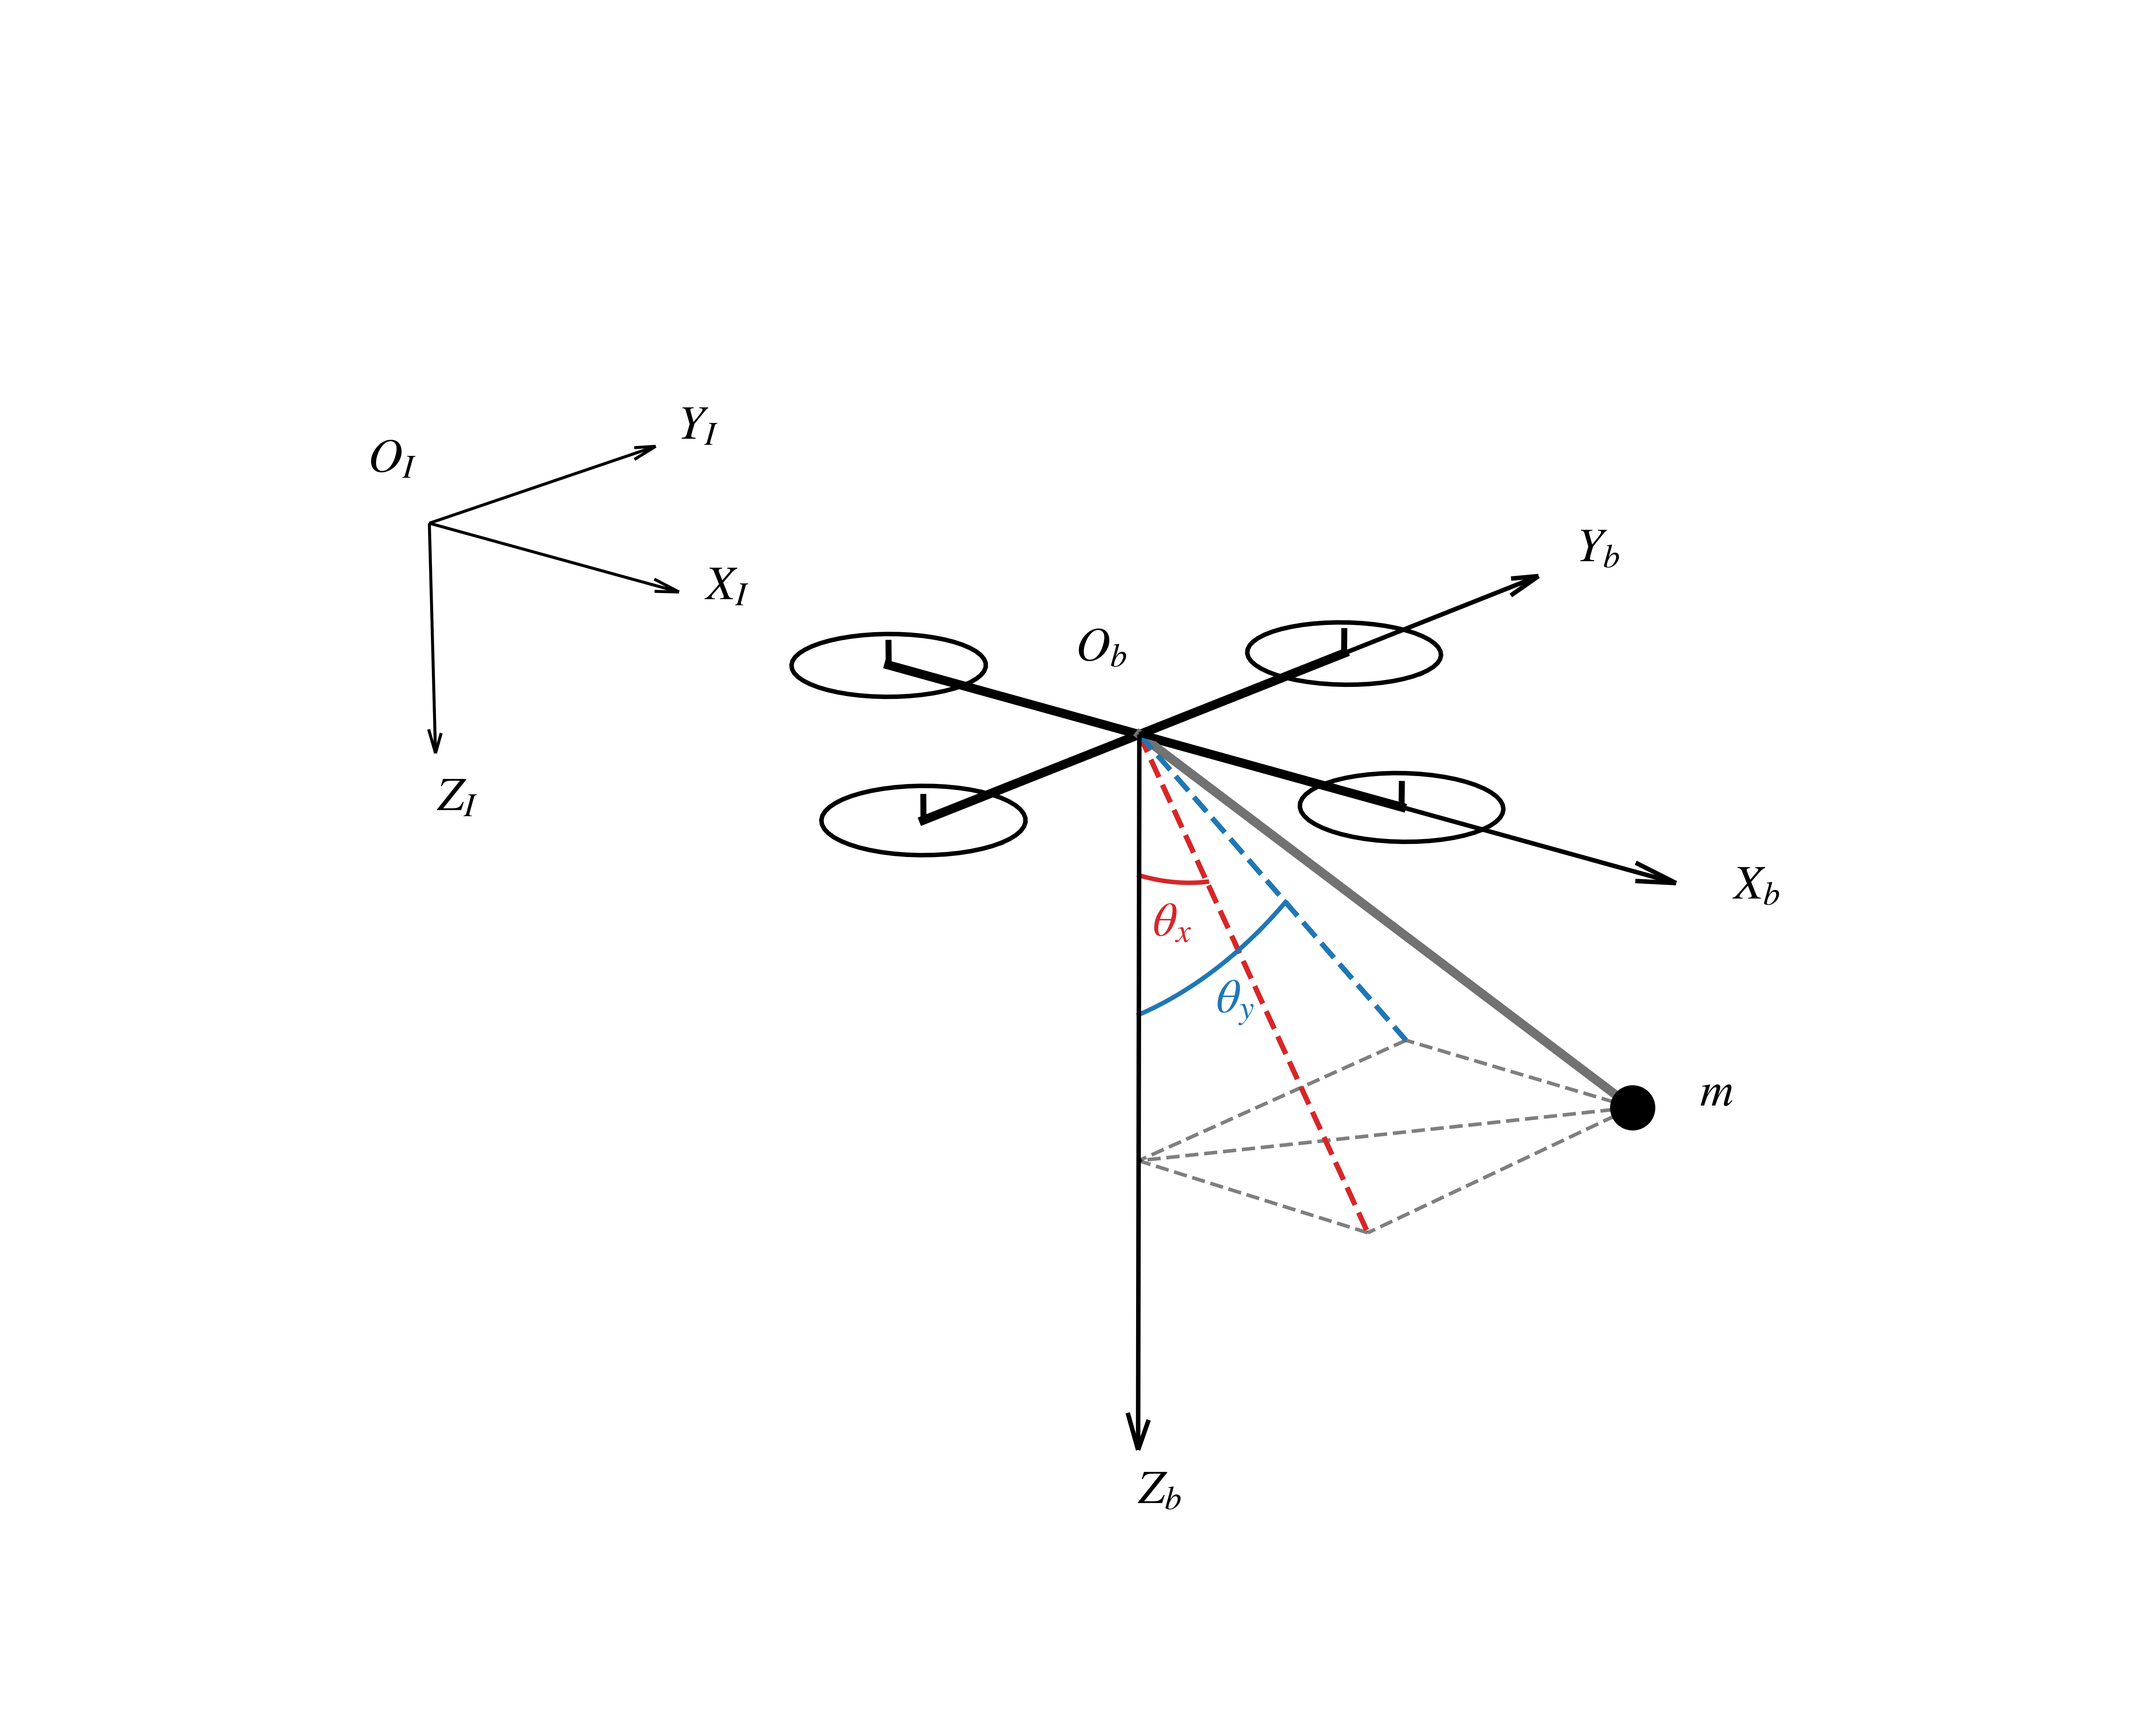
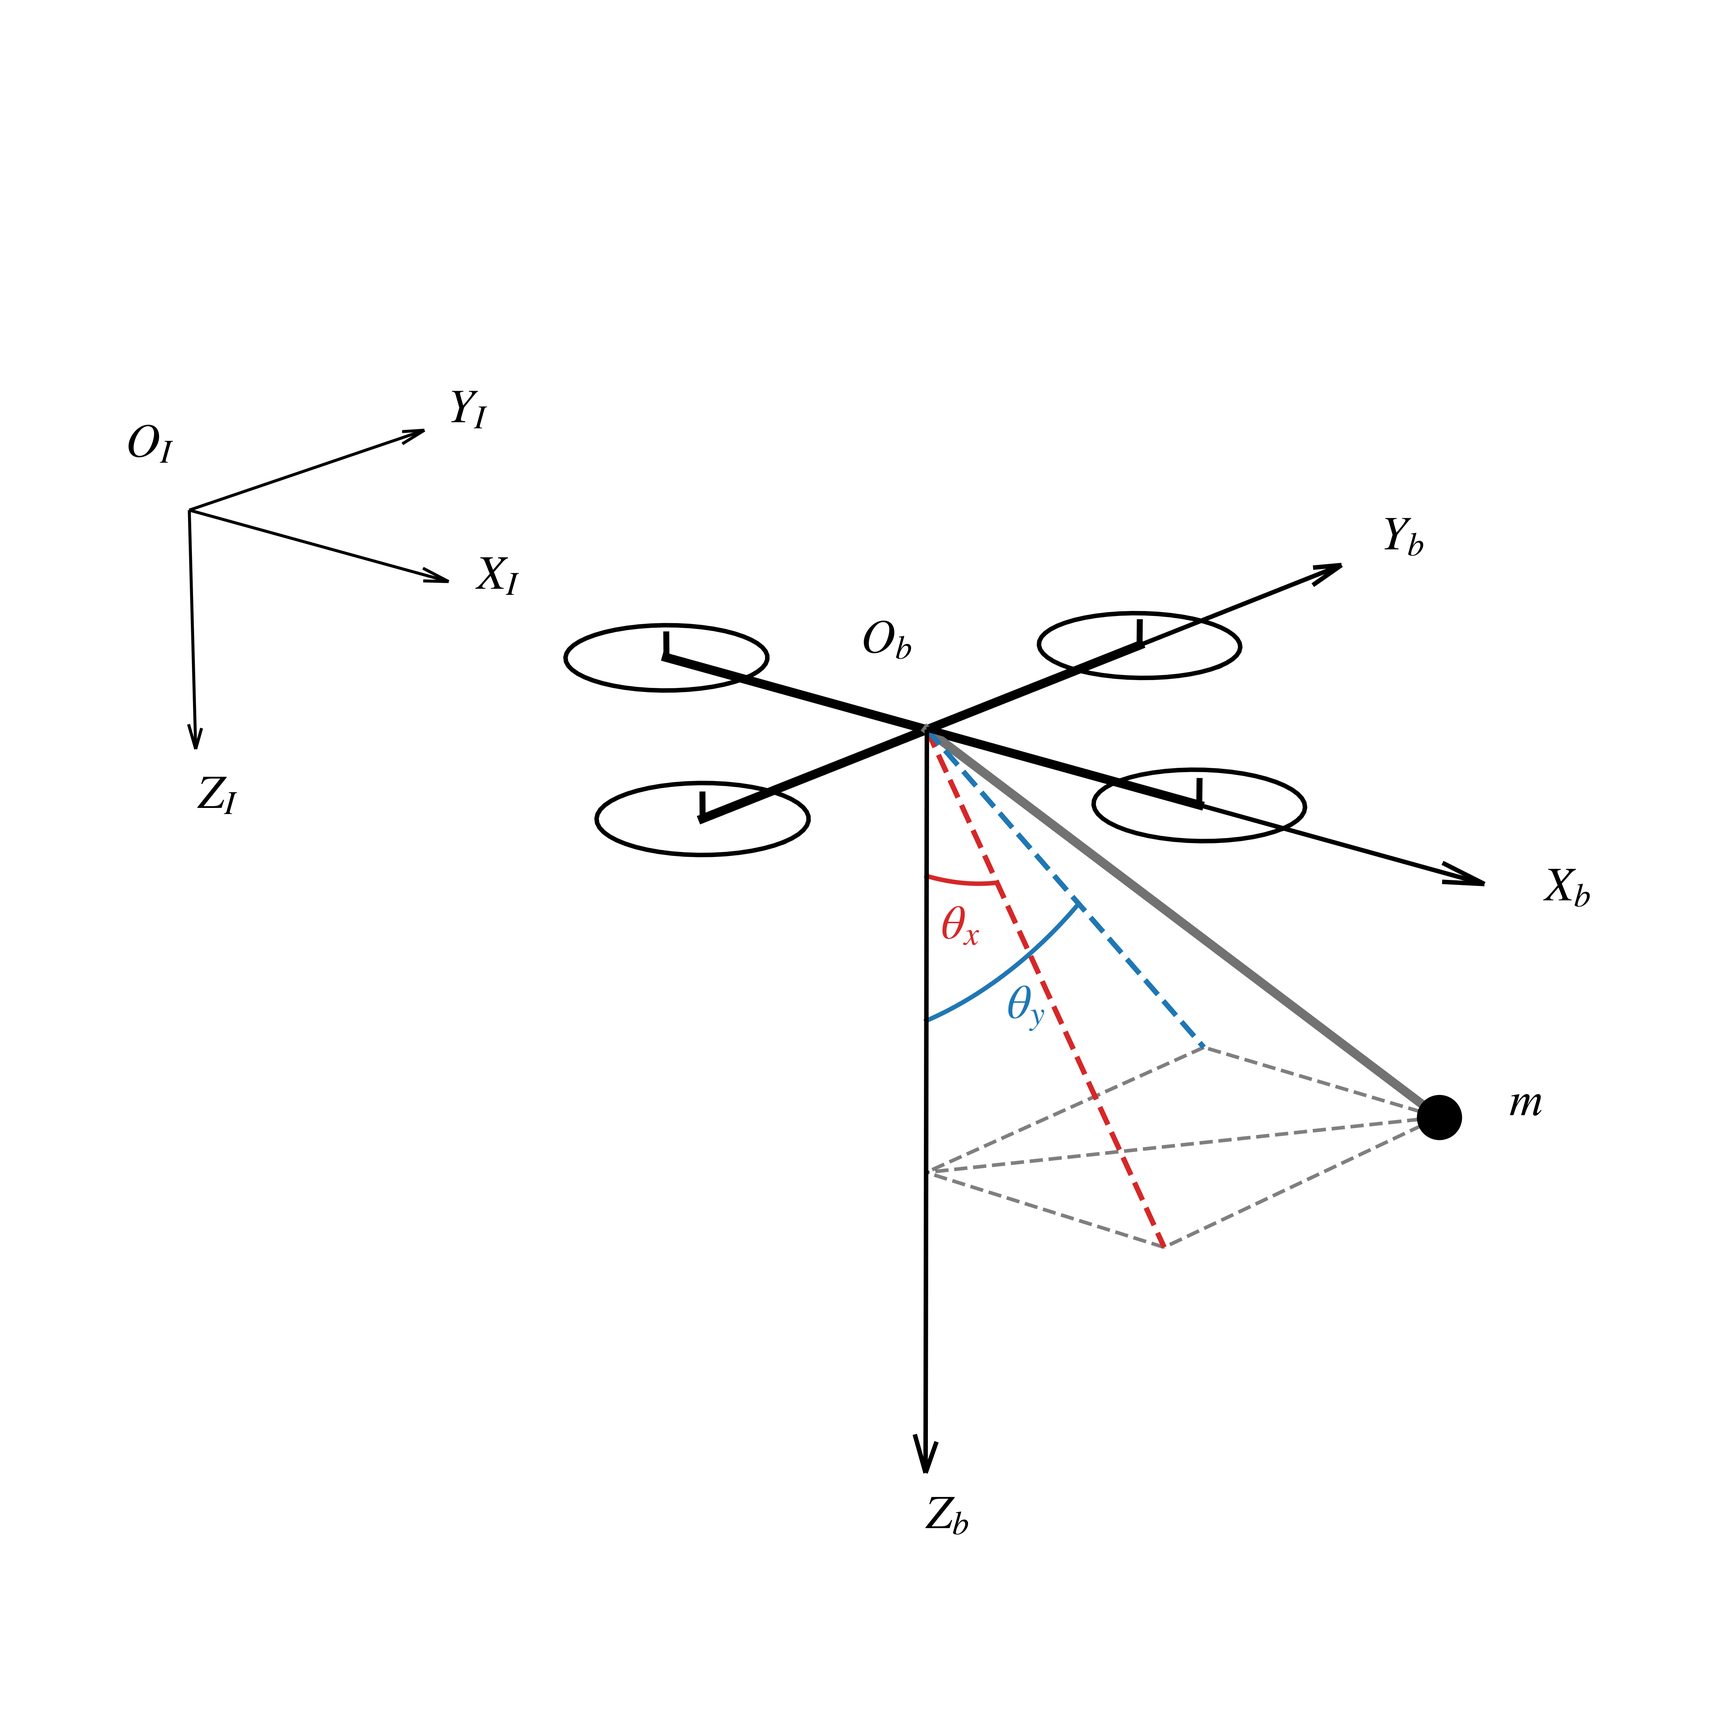
20260501 modify fig1

diff --git a/data_analysis/python/Fig1.py b/data_analysis/python/Fig1.py
@@ -2,43 +2,37 @@ import matplotlib.pyplot as plt
 import numpy as np
 import os
 
-# Set font to Times New Roman globally, and use STIX for math text (looks like Times)
+# Setup
 plt.rcParams['font.family'] = 'serif'
 plt.rcParams['font.serif'] = ['Times New Roman']
 plt.rcParams['mathtext.fontset'] = 'stix'
-
-# Create output directory
 os.makedirs('output', exist_ok=True)
 
 fig = plt.figure(figsize=(10, 8))
 ax = fig.add_subplot(111, projection='3d')
-
-# Remove axes for clean diagram look
 ax.axis('off')
 
-# Base parameters
+# Parameters
 L = 5
 theta_x = np.radians(25)
 theta_y = np.radians(35)
+Z_val = L / np.sqrt(1 + np.tan(theta_x)**2 + np.tan(theta_y)**2)
+X = Z_val * np.tan(theta_x)
+Y = Z_val * np.tan(theta_y)
+Z = -Z_val 
 
-# Calculate coordinates based on projection definition
-Z = L / np.sqrt(1 + np.tan(theta_x)**2 + np.tan(theta_y)**2)
-X = Z * np.tan(theta_x)
-Y = Z * np.tan(theta_y)
-Z = -Z # pointing downwards
-
-# Draw Quadrotor body
+# Quadrotor
 arm = 2
 ax.plot([-arm, arm], [0, 0], [0, 0], 'k-', lw=3)
 ax.plot([0, 0], [-arm, arm], [0, 0], 'k-', lw=3)
 
-# Draw Rotors
+# Rotors
 theta = np.linspace(0, 2*np.pi, 50)
 for cx, cy in [(arm, 0), (-arm, 0), (0, arm), (0, -arm)]:
     ax.plot(cx + 0.6*np.cos(theta), cy + 0.6*np.sin(theta), np.zeros_like(theta), 'k-', lw=1.5)
     ax.plot([cx, cx], [cy, cy], [0, 0.2], 'k-', lw=2)
 
-# Coordinate system (Body frame Ob-XbYbZb)
+# Body Frame
 ax.quiver(0, 0, 0, 4, 0, 0, color='k', arrow_length_ratio=0.075, lw=1.5)
 ax.quiver(0, 0, 0, 0, 4, 0, color='k', arrow_length_ratio=0.075, lw=1.5)
 ax.quiver(0, 0, 0, 0, 0, -6.5, color='k', arrow_length_ratio=0.05, lw=1.5)
@@ -47,7 +41,7 @@ ax.text(0, 4.4, 0, '$Y_b$', fontsize=16, fontweight='bold', style='italic')
 ax.text(0, 0, -7.0, '$Z_b$', fontsize=16, fontweight='bold', style='italic')
 ax.text(-0.5, 0, 0.5, '$O_b$', fontsize=16, fontweight='bold', style='italic')
 
-# Draw Inertial Frame (OI-XIYIZI) in the background
+# Inertial Frame
 offset_x, offset_y, offset_z = -3, -3, 2
 ax.quiver(offset_x, offset_y, offset_z, 2, 0, 0, color='k', arrow_length_ratio=0.1, lw=1)
 ax.quiver(offset_x, offset_y, offset_z, 0, 2, 0, color='k', arrow_length_ratio=0.1, lw=1)
@@ -57,33 +51,22 @@ ax.text(offset_x, offset_y+2.2, offset_z, '$Y_I$', fontsize=16)
 ax.text(offset_x, offset_y, offset_z-2.5, '$Z_I$', fontsize=16)
 ax.text(offset_x-0.5, offset_y, offset_z+0.3, '$O_I$', fontsize=16)
 
-# Draw Cable
+# Cable & Payload
 ax.plot([0, X], [0, Y], [0, Z], color="#727272", lw=3, label='Rigid Cable')
-
-# Draw Payload
 ax.scatter([X], [Y], [Z], color='k', s=200, depthshade=False, zorder=5)
 ax.text(X+0.3, Y+0.3, Z, 'm', fontsize=16, style='italic')
 
-# Draw projections and planes
-# 1. 载荷到 X-Z 平面的投影连线
+# Projections & Lines
 ax.plot([X, X], [Y, 0], [Z, Z], 'k--', alpha=0.5, lw=1.2)
-# 2. 载荷到 Y-Z 平面的投影连线
 ax.plot([X, 0], [Y, Y], [Z, Z], 'k--', alpha=0.5, lw=1.2)
-# 3. X-Z 平面投影点 到 Z 轴的连线
 ax.plot([X, 0], [0, 0], [Z, Z], 'k--', alpha=0.5, lw=1.2)
-# 4. Y-Z 平面投影点 到 Z 轴的连线
 ax.plot([0, 0], [Y, 0], [Z, Z], 'k--', alpha=0.5, lw=1.2)
-# 5. 补全中心 Z 轴的辅助线，延伸到载荷的 Z 轴高度
 ax.plot([0, 0], [0, 0], [0, Z], 'k--', alpha=0.5, lw=1.2)
-# 6. 新增：载荷 m 直接到 Z 轴的连线（底面对角线）
 ax.plot([X, 0], [Y, 0], [Z, Z], 'k--', alpha=0.5, lw=1.2)
-
-# Projection to X-Z plane (theta_x)
 ax.plot([0, X], [0, 0], [0, Z], '--', color='#d62728', lw=1.75)
-# Projection to Y-Z plane (theta_y)
 ax.plot([0, 0], [0, Y], [0, Z], '--', color='#1f77b4', lw=1.75)
 
-# Draw angles
+# Angles
 t = np.linspace(0, theta_x, 30)
 arc_r = 1.25
 ax.plot(arc_r*np.sin(t), np.zeros_like(t), -arc_r*np.cos(t), '#d62728', lw=1.5)
@@ -94,11 +77,11 @@ arc_r2 = 2.5
 ax.plot(np.zeros_like(t2), arc_r2*np.sin(t2), -arc_r2*np.cos(t2), '#1f77b4', lw=1.5)
 ax.text(0, arc_r2*np.sin(theta_y/2) + 0.0, -arc_r2*np.cos(theta_y/2) - 0.4, r'$\theta_y$', color='#1f77b4', fontsize=16)
 
-# Set view angle
+# View
 ax.view_init(elev=20, azim=-50)
 
-# Save
-plt.tight_layout()
-plt.savefig('output/Fig1.png', dpi=600, transparent=False, facecolor='white')
-plt.savefig('output/Fig1.pdf', transparent=False, facecolor='white')
+# Save Configuration
+fig.subplots_adjust(left=0, right=1, bottom=0, top=1)
+plt.savefig('output/Fig1.png', dpi=600, transparent=False, facecolor='white', bbox_inches='tight', pad_inches=0)
+plt.savefig('output/Fig1.pdf', transparent=False, facecolor='white', bbox_inches='tight', pad_inches=0)
 plt.show()
